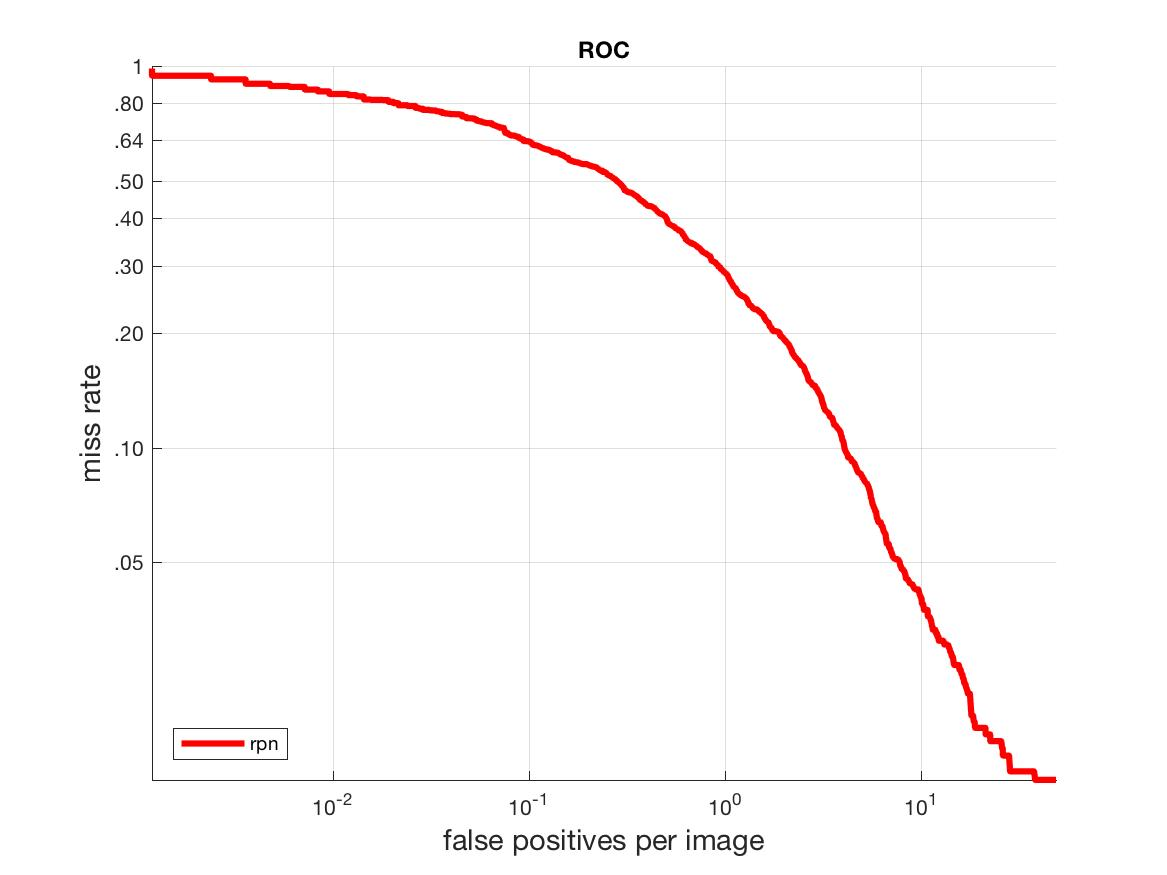
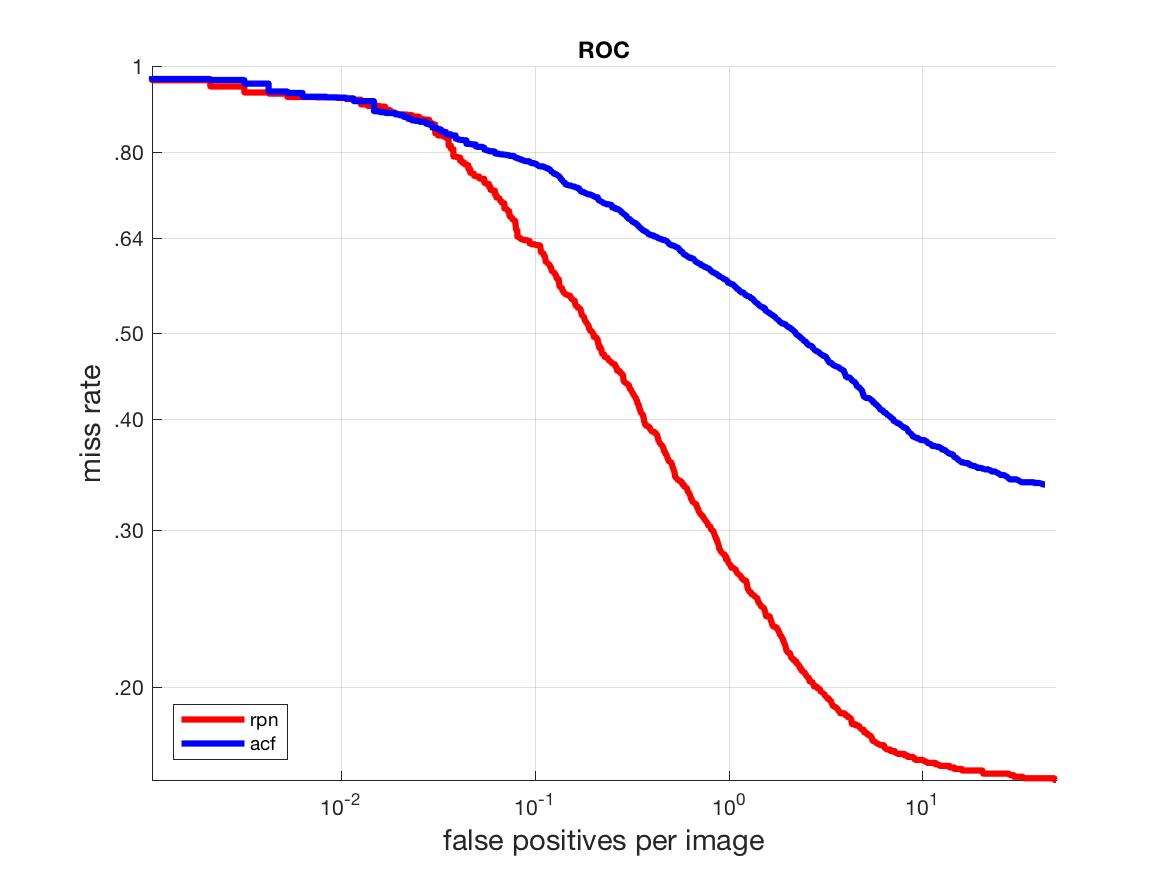
u

diff --git a/evaluation.m b/evaluation.m
@@ -30,7 +30,7 @@ xMax = 0;
 grid on;
 for i = 1:size(testFiles,2)
     [gt,dt] = bbGt( 'myLoadAll', groundtruth,testFiles{i},pLoad);
-    thr = 0.1;
+    thr = 0.5;
     [gt,dt] = bbGt('evalRes',gt,dt,thr,0);
     [xs,ys] = bbGt('compRoc',gt,dt,1);
     ys = 1 - ys;
